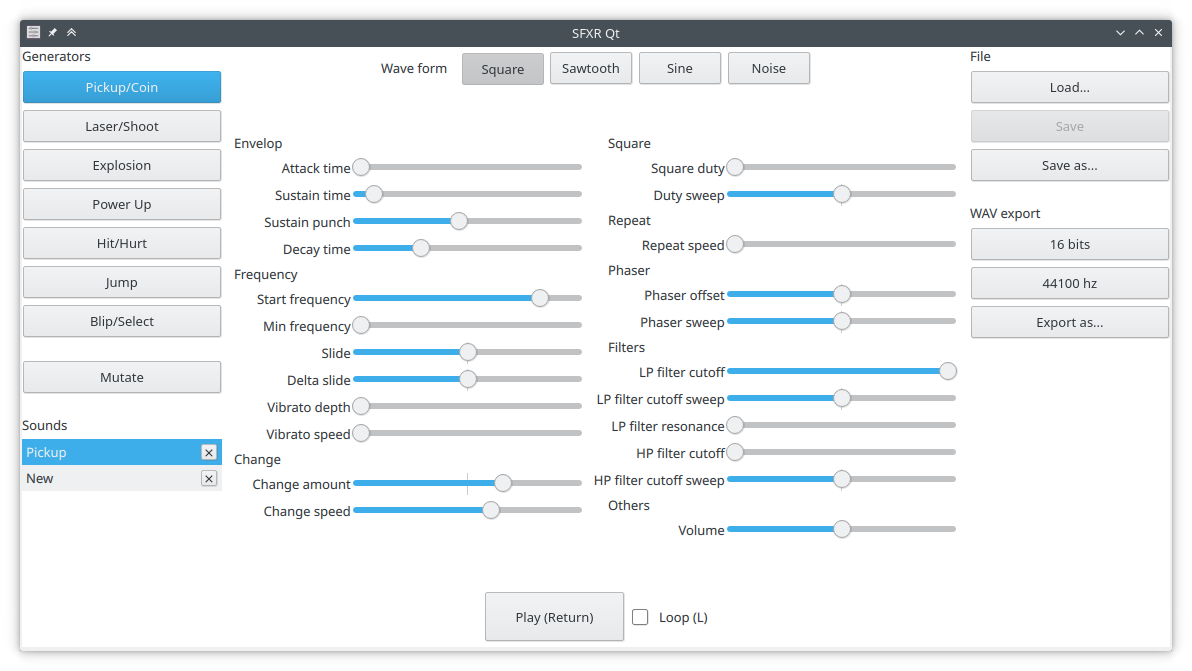
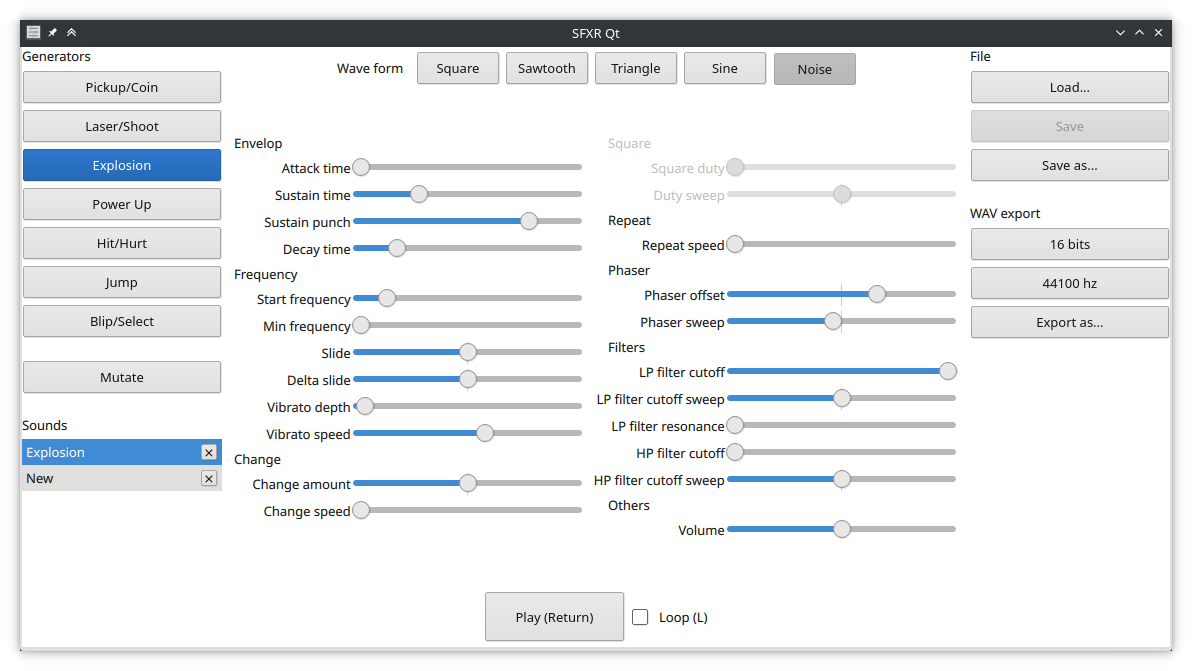
Getting ready for 1.3.0

diff --git a/CHANGELOG.md b/CHANGELOG.md
@@ -1,5 +1,25 @@
 # Changelog
 
+## 1.3.0 - 2019-09-15
+
+### Added
+
+- Changed to a new, JSON based, file format: SFXJ.
+- Added a new wave form: triangle.
+- Added continuous integration using Travis CI.
+
+### Changed
+
+- Open and save file dialogs now show an error message when something went
+  wrong.
+
+- Internal cleanups:
+    - Ported loading and saving code from FILE to QFile.
+    - Applied my coding style.
+    - Split the code into a static lib and an app.
+    - Added tests.
+    - Cleaned some float vs qreal warnings.
+
 ## 1.2.0 - 2018-10-29
 
 ### Added
